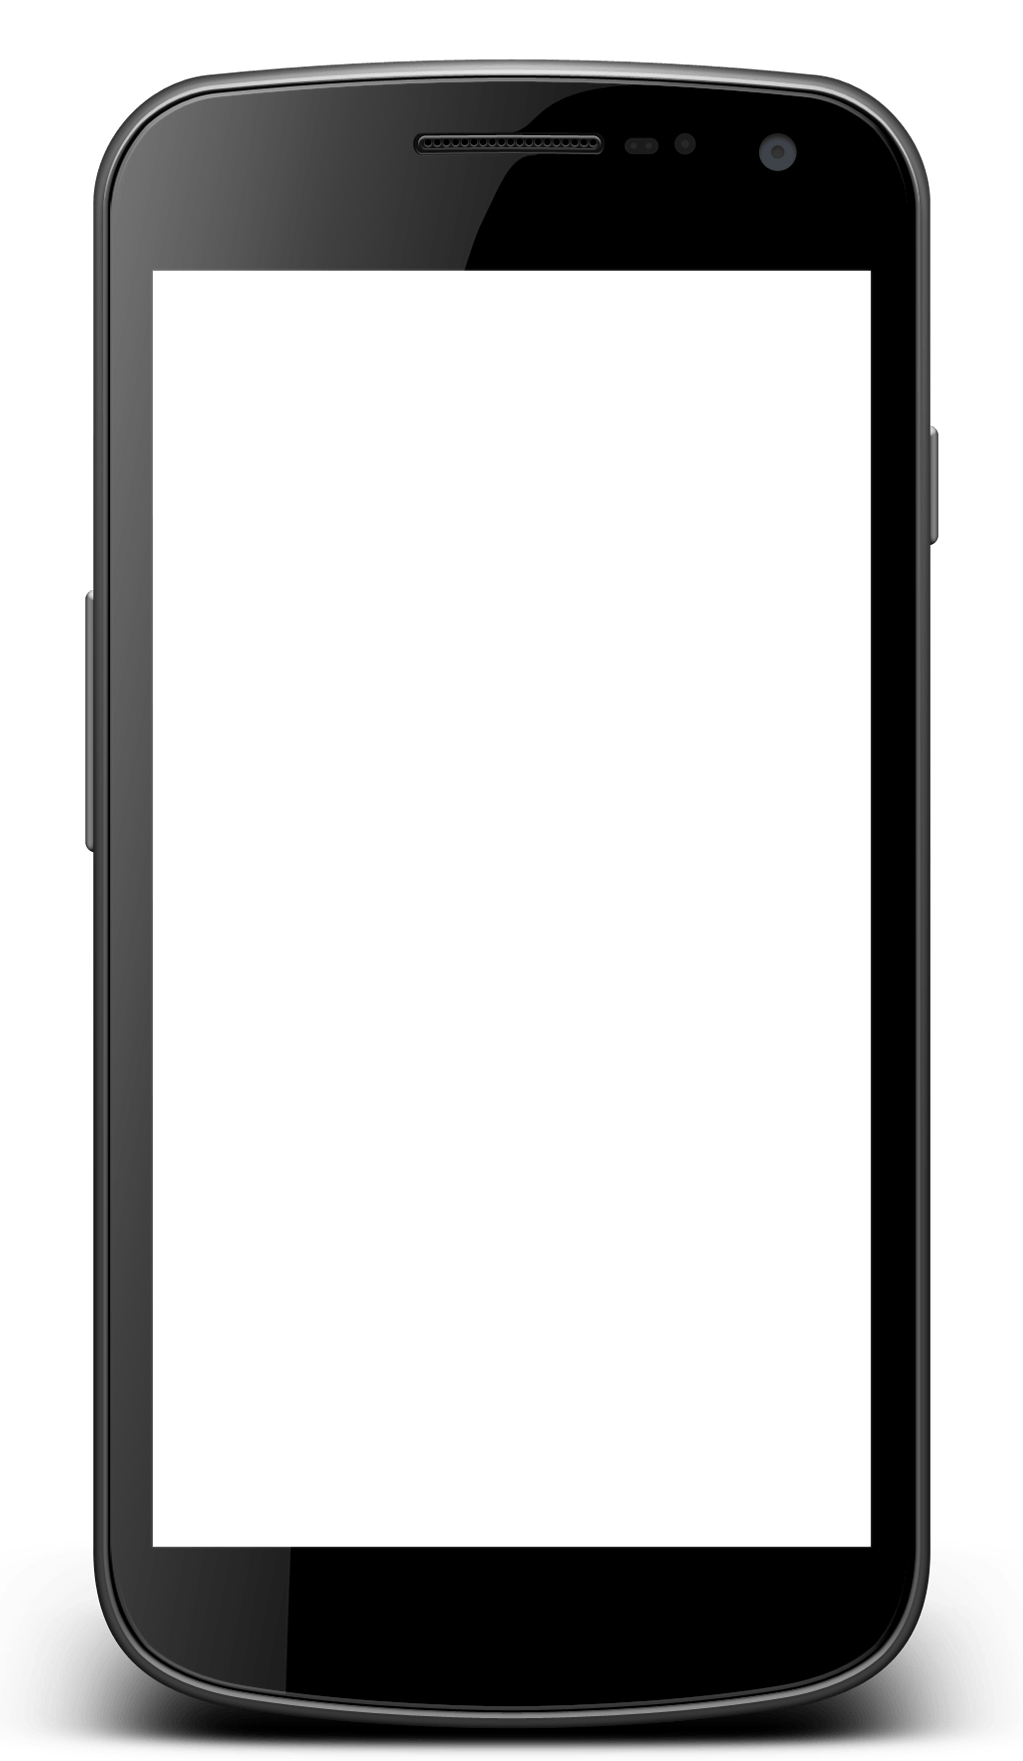
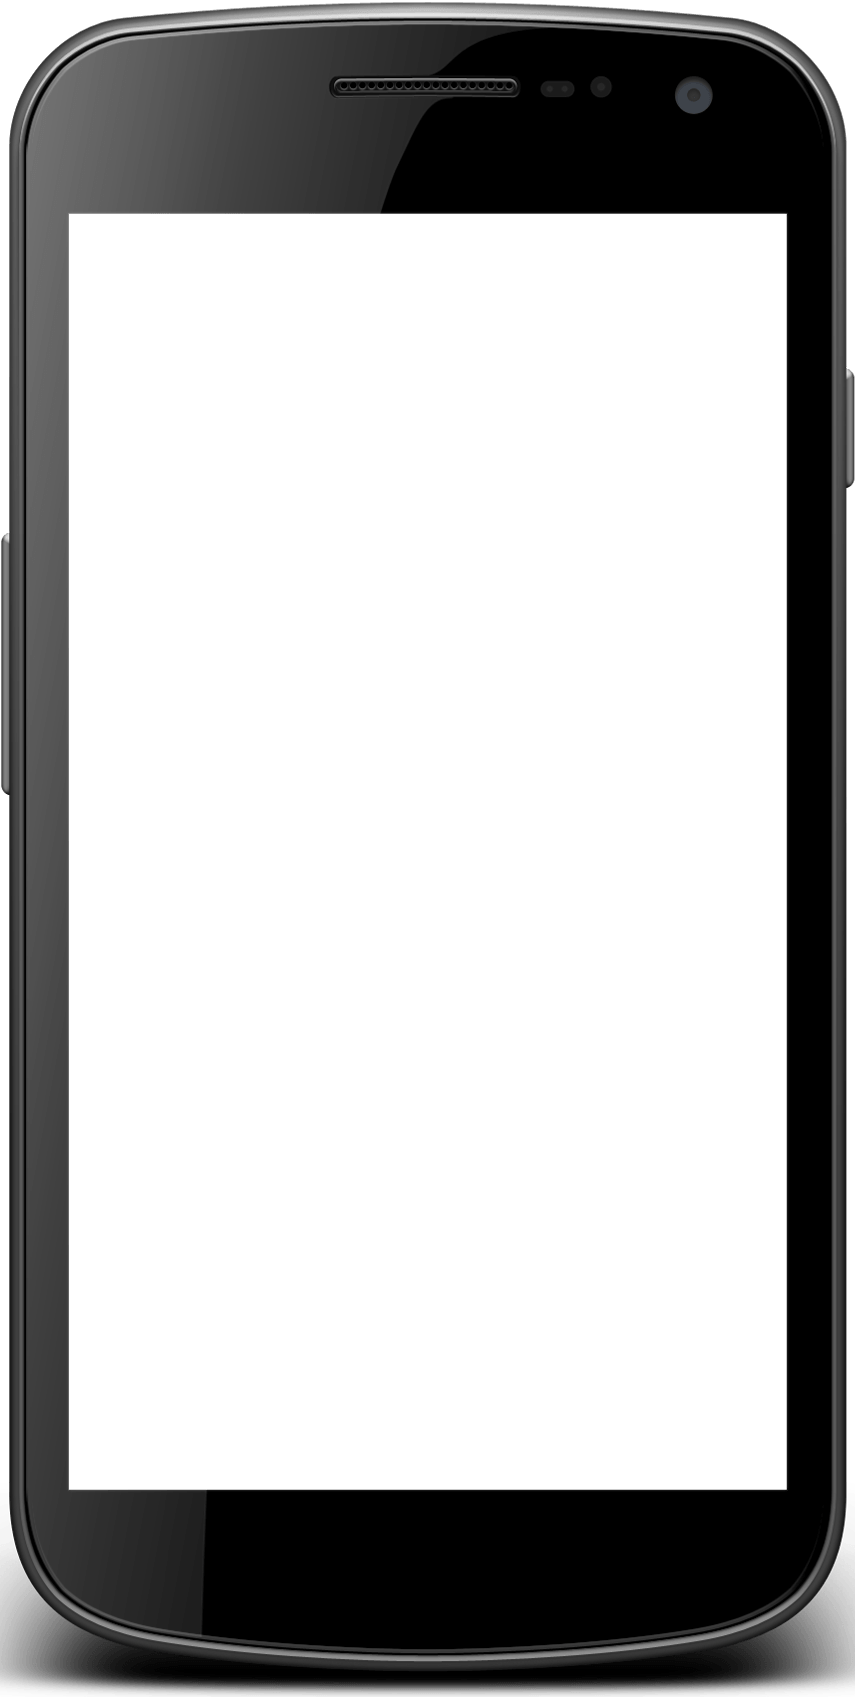
Se le quitaron los bordes laterales vacíos que tenía la imágen del teléfono, para que apareciera más grande al momento de mostrarlo en la web

diff --git a/css/style.css b/css/style.css
@@ -113,7 +113,7 @@ ul.sidebar > li:hover                           { background-color: #0c9; color:
 .color-code                                     { display: inline-block; height: 20px; margin-right: 10px; font-family: "Roboto"; font-size: 12px; font-weight: 600; line-height: 20px; color: #000; overflow: hidden; }
 .color-code > span                              { display: inline-block; width: 20px; height: 20px; margin-right: 5px; border-radius: 2px; }
 .color-code > em                                { position: relative; top: -5px; }
-#messages-container                             { position: absolute; background: #fff; top: 15%; right: 18%; bottom: 12%; left: 18%; }
+#messages-container                             { position: absolute; background: #fff; top: 12%; bottom: 12%; }
 #messages-container .messages                   { width: 100%; padding: 10px; position: absolute; left: 0; right: 0; bottom: 30px; top: 0; overflow-y: scroll; }
 #messages-container .message                    { width: 60%; margin-bottom: 10px; padding: 9px; position: relative; background: #e5e4e9; border-radius: .8em; font-size: 12px; line-height: 1.5em; color: #000; float: left; }
 #messages-container .response-message           { float: right; color: #fff; background-color: #2095fe; }
@@ -372,6 +372,10 @@ iframe { width: 100%; }
         top: 100px !important;
         z-index: 9;
     }
+    #messages-container {
+        right: 9%;
+        left: 10%;
+    }
     #simulator-phone > #phone-holder {
         width: 100%;
         height: 100%;
@@ -379,8 +383,8 @@ iframe { width: 100%; }
     .close.rounded {
         display: block;
         position: absolute;
-        top: 10px;
-        right: 45px;
+        top: 3px;
+        right: 23px;
         width: 50px;
         height: 50px;
         border-radius: 50%;
@@ -390,6 +394,10 @@ iframe { width: 100%; }
 }
 @media (min-width: 768px) {
     .close.rounded { display: none; }
+    #messages-container {
+        right: 12%;
+        left: 12%;
+    }
 }
 @media (max-width: 374px) {
     .control-calendar {
